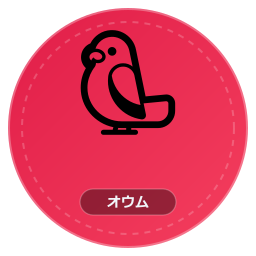
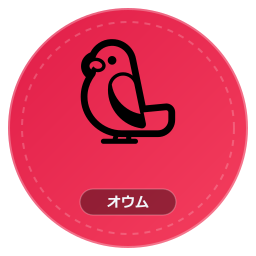
style: 動物アイコン絵文字を垂直中央・真中心に配置調整

Changed region(s): [[0.3125, 0.0938, 0.6875, 0.5625]]

diff --git a/scripts/generate-animal-icons.js b/scripts/generate-animal-icons.js
@@ -41,8 +41,8 @@ async function generate() {
         <!-- Inner Decorative Ring -->
         <circle cx="128" cy="128" r="106" fill="none" stroke="rgba(255,255,255,0.2)" stroke-width="2" stroke-dasharray="6 6" />
         
-        <!-- Large Animal Emoji Icon (タイプ名は完全削除し、中央の絵文字を拡大) -->
-        <text x="128" y="118" font-size="96" text-anchor="middle" dominant-baseline="central">
+        <!-- Large Animal Emoji Icon (アイコン真中心に配置) -->
+        <text x="128" y="127" font-size="96" text-anchor="middle" dominant-baseline="central">
           ${item.emoji}
         </text>
         
